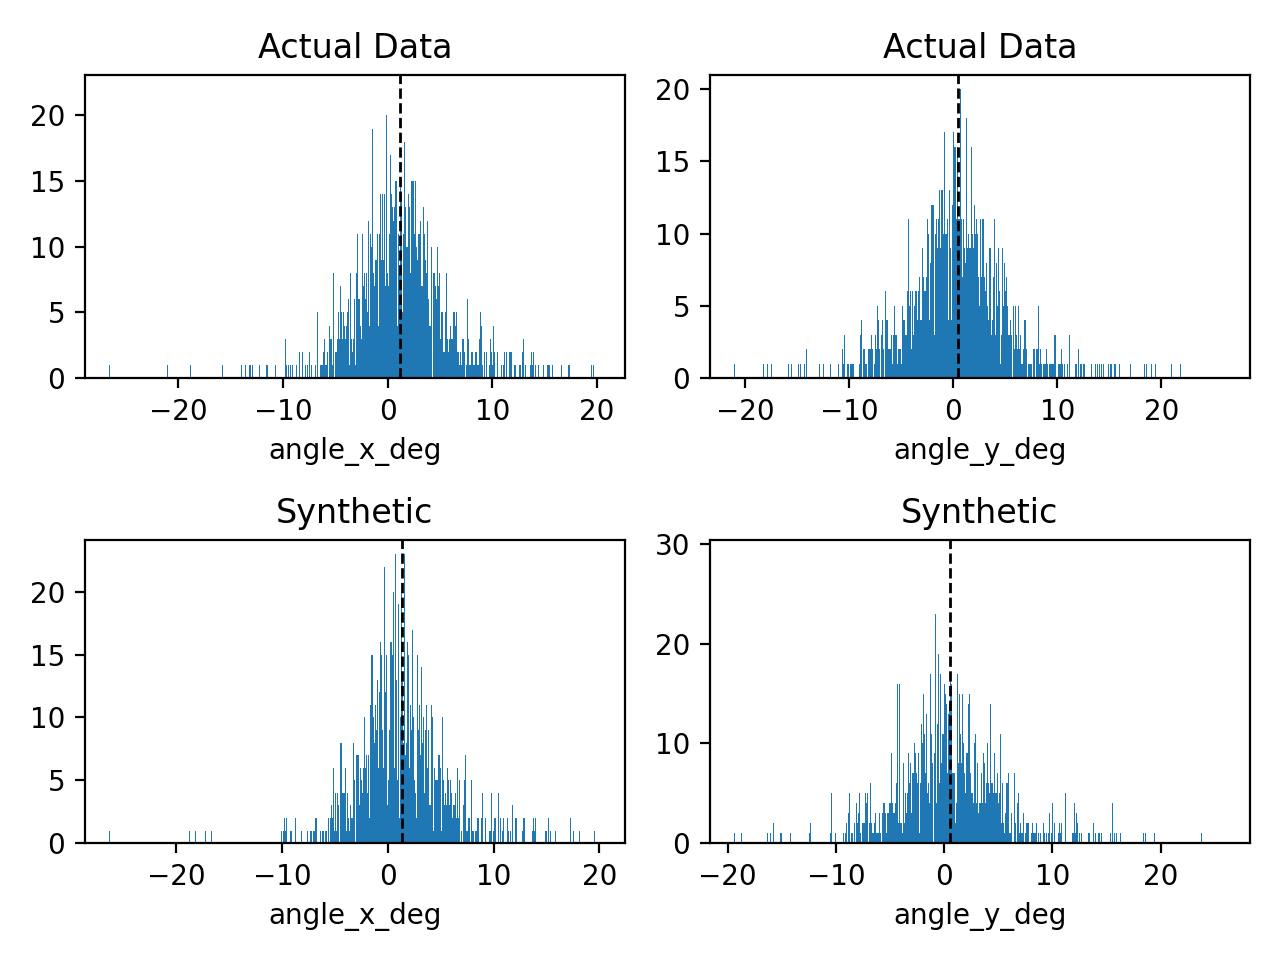
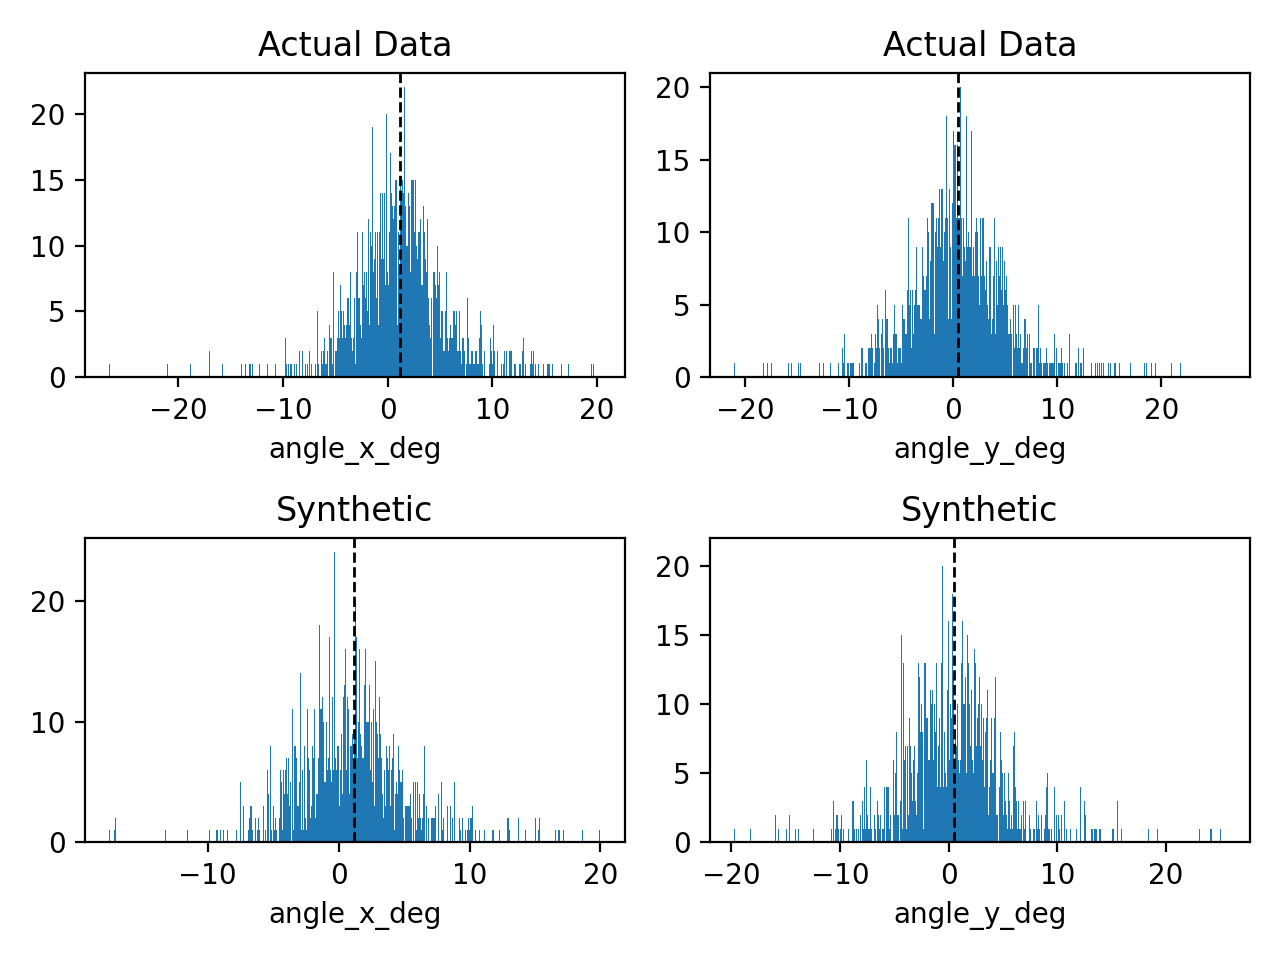
DON'T OVERWRITE THIS AGAIN

diff --git a/scrips/main.py b/scrips/main.py
@@ -39,7 +39,7 @@ estd = (df[["EllipseXTilt"]].std(), df[["EllipseYTilt"]].std())
 with open("Output.txt", "w") as text_file:
     text_file.write("Finite Difference Standard Deviations (x, y): %s" % str(fstd))
     text_file.write("Ellipse Method Standard Deviations (x, y): %s" % str(estd))
-"""
+
 #copulas
 zz = np.arange(1,128)
 zz_complete = np.arange(129)
@@ -70,14 +70,33 @@ data_sim_arr = np.empty((len(cop_models),129,n_fibers,2))
 # Generate a list with lists inside it
 cop_lst = [[] for i in range(len(cop_models))]
 
+aic_gaussian = []
+aic_student = []
+aic_frank = []
 for z in zz:
     df_z = sort(df,z,par_1,par_2)
     for i,model in enumerate(cop_models):
-        data_sim_arr[i,z], cop = bivariate_copula(df_z,n_fibers,model=model)
+        data_sim_arr[i,z], cop, aic = bivariate_copula(df_z,n_fibers,model=model)
         cop_lst[i].append(cop)
+        if f"{model}" == 'BicopFamily.gaussian':
+            aic_gaussian.append(aic)
+        elif f"{model}" == 'BicopFamily.student':
+            aic_student.append(aic)
+        elif f"{model}" == 'BicopFamily.frank':
+            aic_frank.append(aic)
+        else:
+            print('aaaa')
     for i in range(len(cop_models)):
         data_sim_arr[i,0] = data_sim_arr[i,1]
 
+gaussian_mean = np.mean(aic_gaussian)
+student_mean = np.mean(aic_student)
+frank_mean = np.mean(aic_frank)
+print(gaussian_mean)
+print(student_mean)
+print(frank_mean)
+
+"""
 sim_arr = reconstruct(data_clean,data_sim_arr[0],zz,n_fibers)
 
 df_columns = ['fibre_id','z','x','y']
@@ -97,7 +116,7 @@ for fibre_id in range(n_fibers):
 
 # Plot synthetic fibers
 
-fig = px.line_3d(sim_fibers_df,
+fig = px.line_3d(sim_df,
                 x="x", y="y", z="z",
                 color="fibre_id",
                 title='Synthetic Fibers')
@@ -125,7 +144,7 @@ plt.close('all')
 # plot_og_data(par_1,par_2,mean_arr,df,[67])
 plot_synthetic_data(par_1,par_2,mean_arr,df,data_sim_arr[1],[30])
 
-"""
+
 #PCA method figure
 pca, data_pca, coverage_lst = PCA_determination(fiber_sum)
 
@@ -180,3 +199,4 @@ ks_x_list, ks_y_list = ks_by_z_lists(df)
 
 print("KS X:", ks_x_list)
 print("KS Y:", ks_y_list)
+"""
